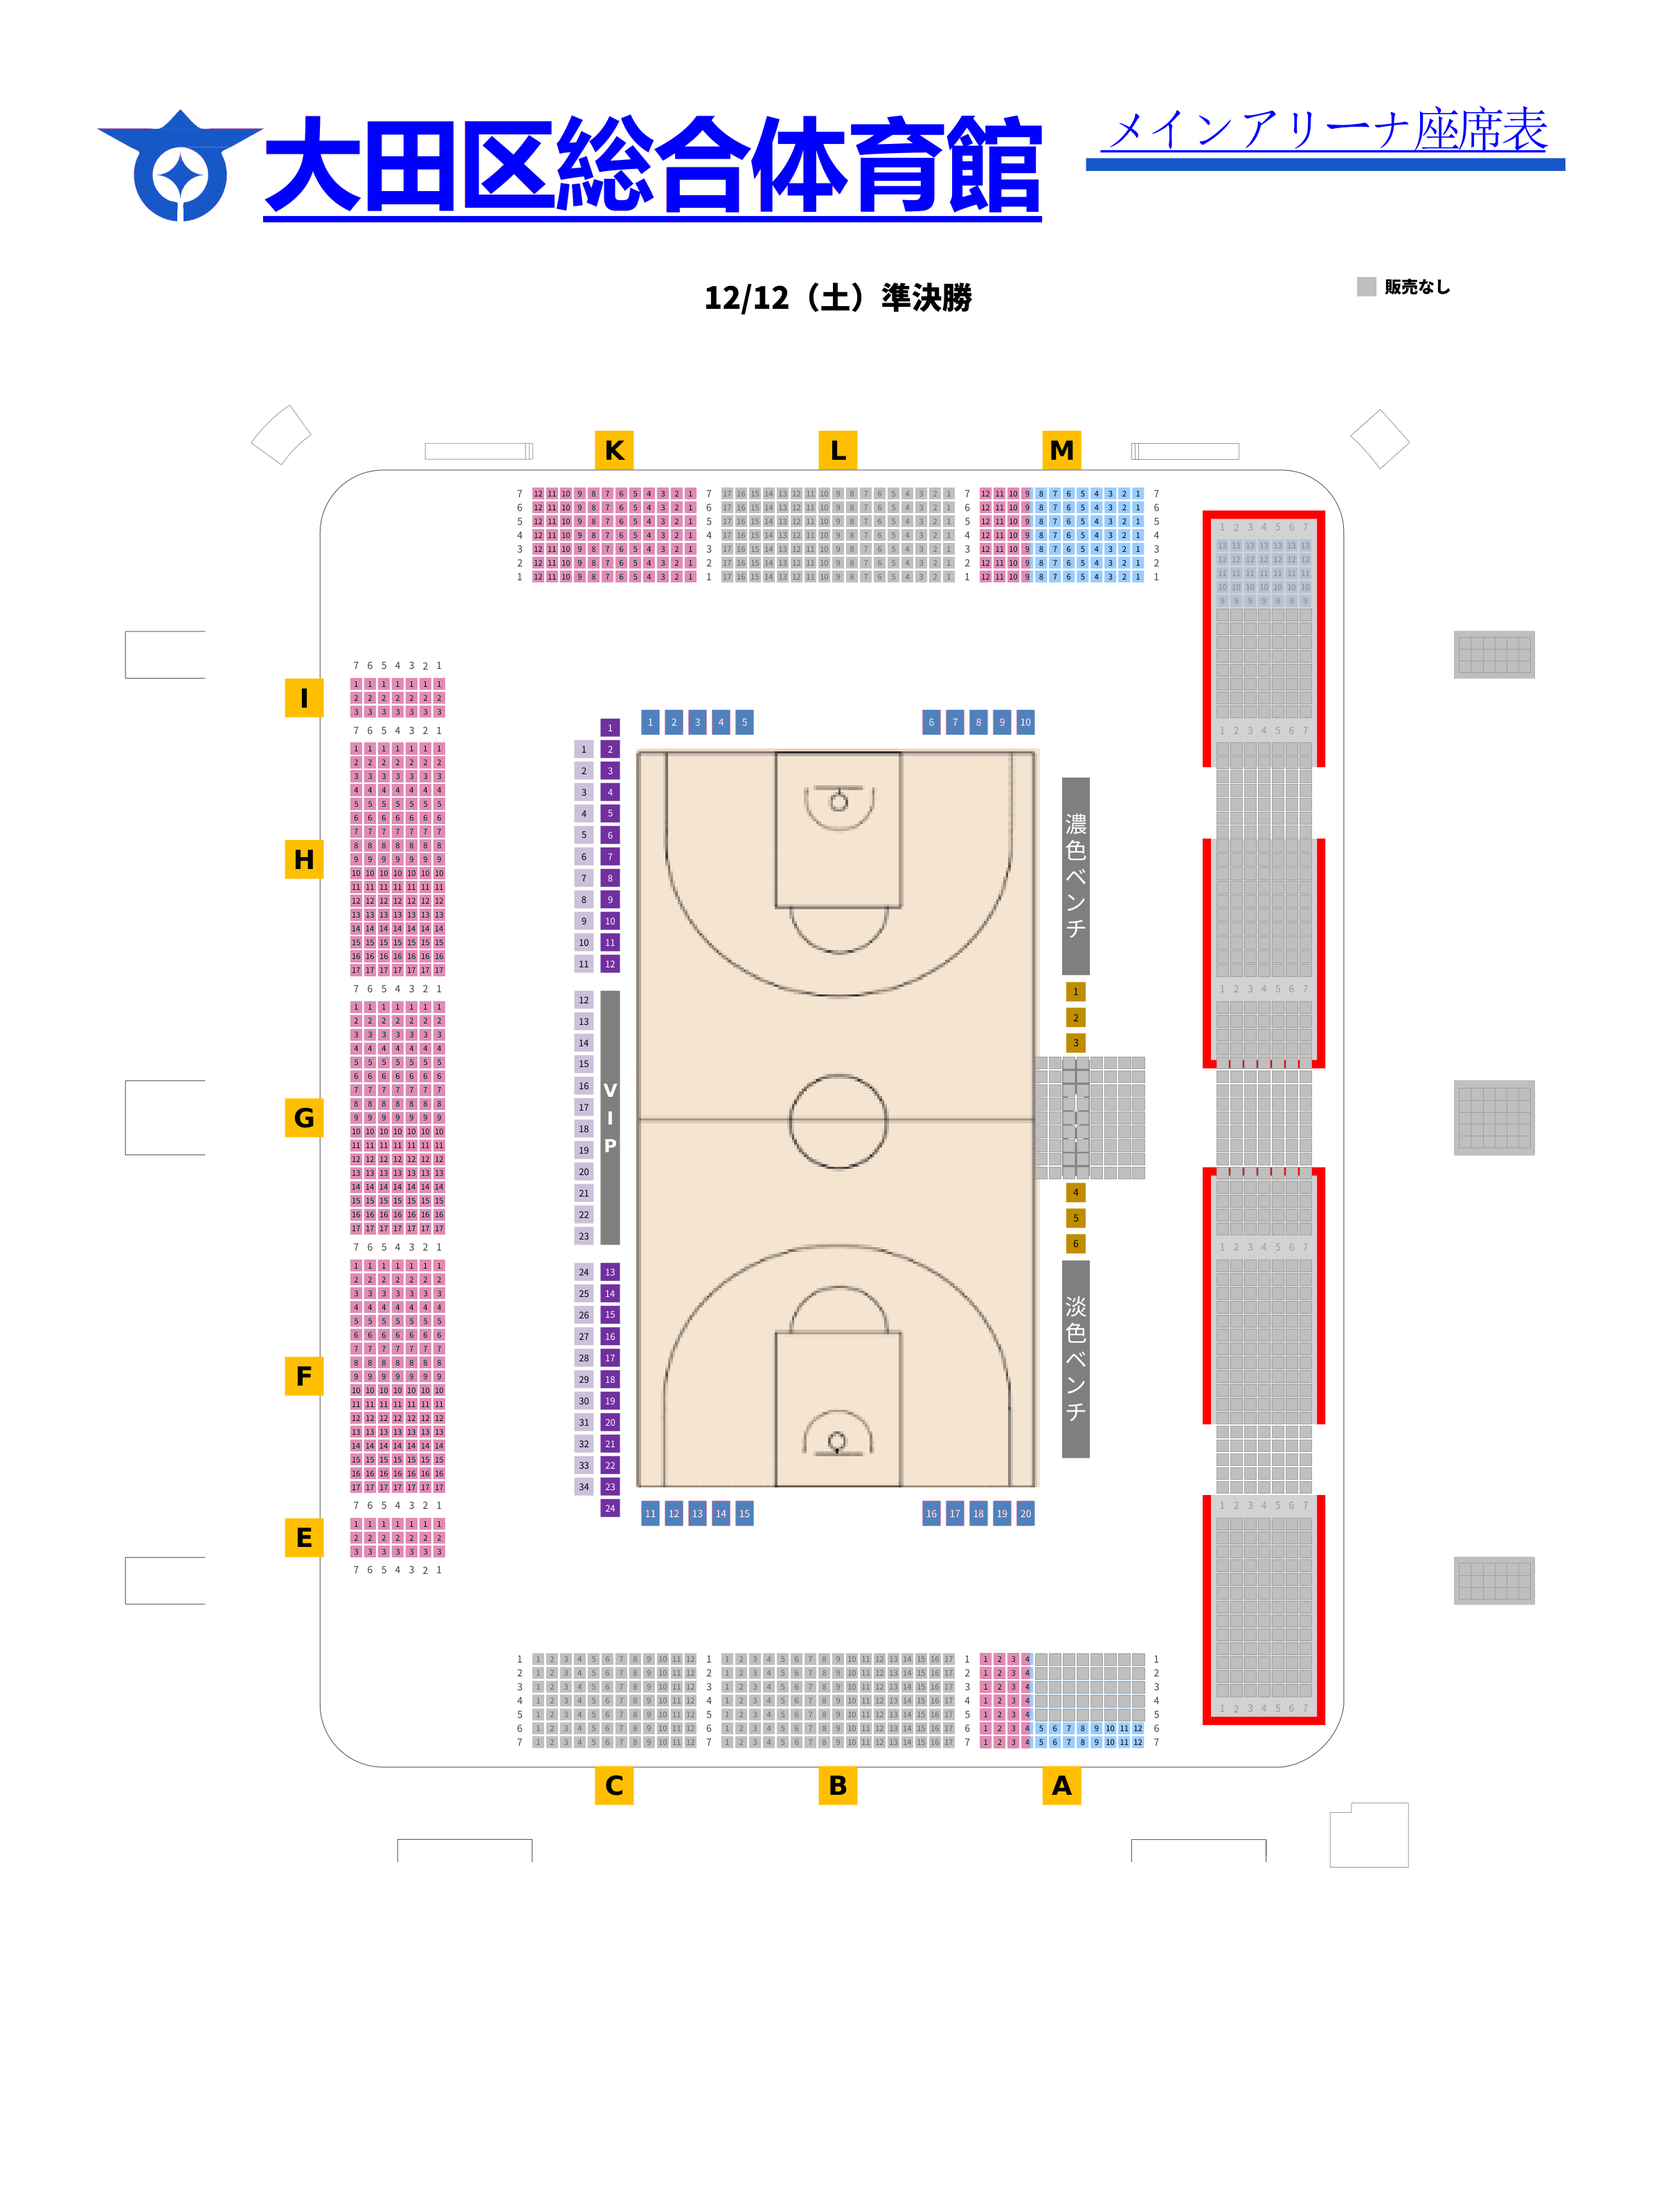
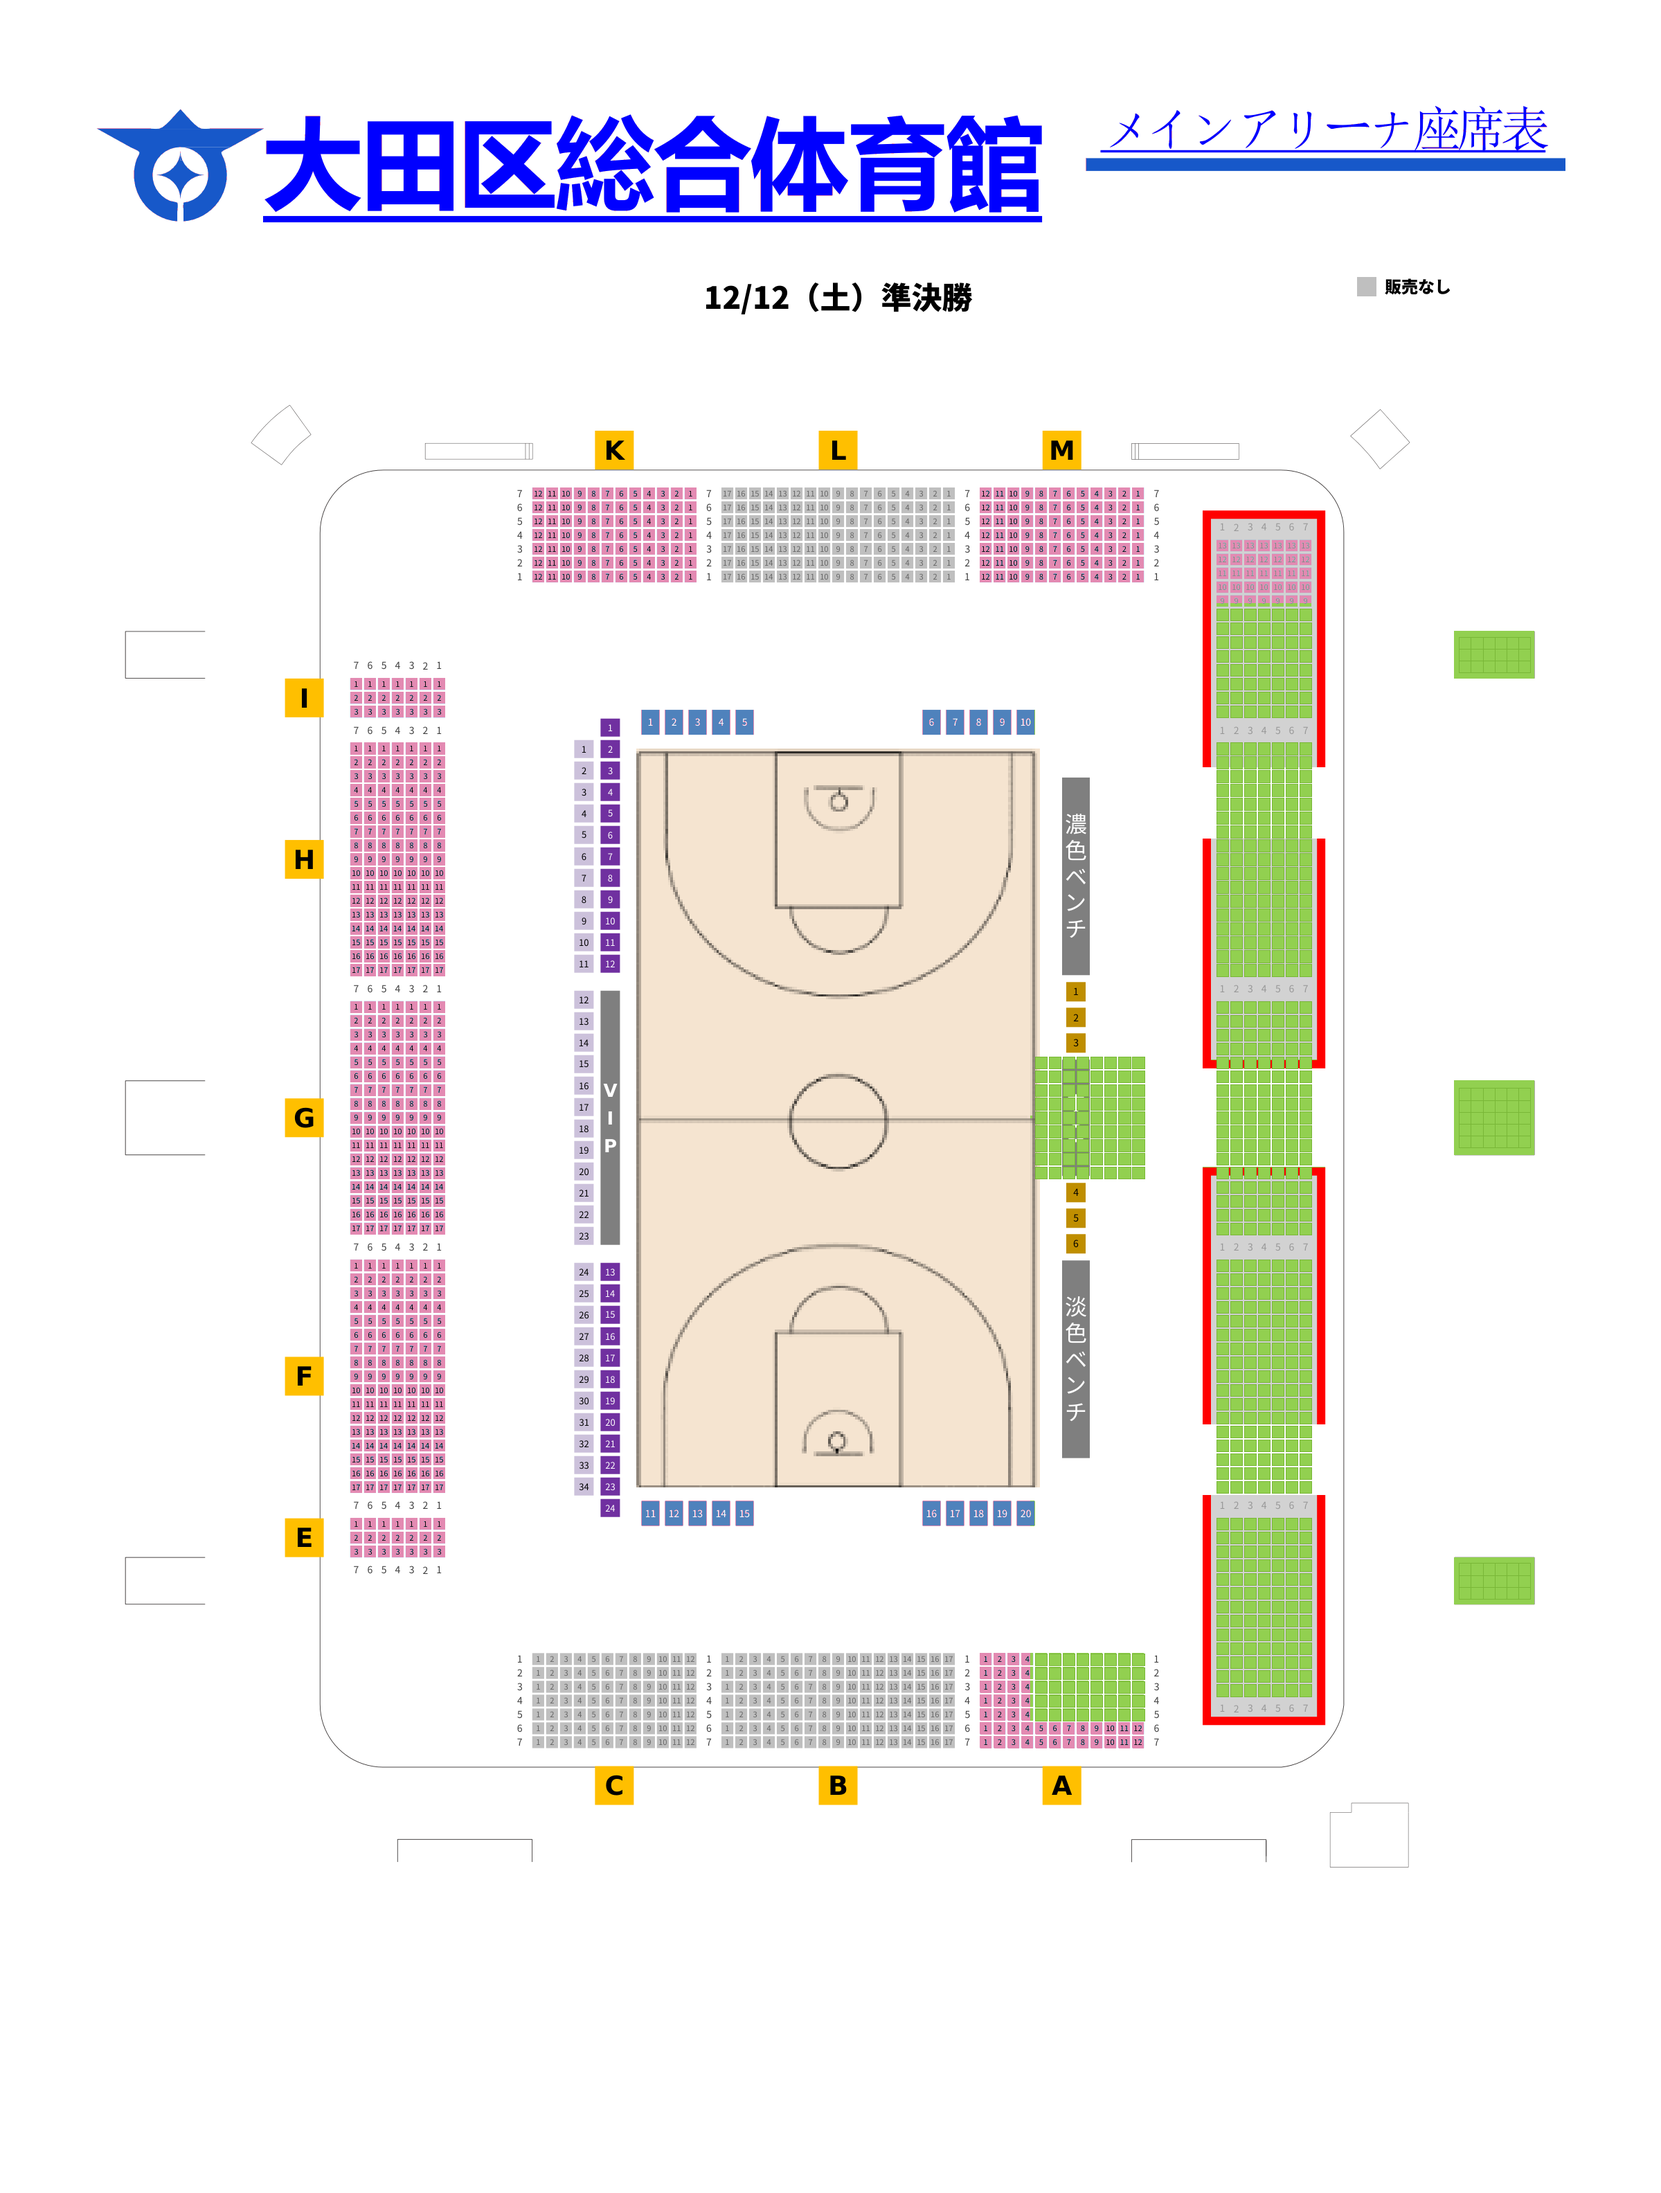
チーム券席を料金表の緑に統一し大田列のピンク水色混在を除去

diff --git a/scripts/convert_pdfs.py b/scripts/convert_pdfs.py
@@ -4,6 +4,7 @@ from __future__ import annotations
 import json
 import re
 import sys
+import time
 from pathlib import Path
 
 try:
@@ -24,8 +25,27 @@ DATE_MAP = {
     "12.13": "2025-12-13",
 }
 
-from incare_palette import FLOOR1_PINK  # noqa: E402
-from extract_seats_from_pdf import ota_stroke_team_rects  # noqa: E402
+from incare_palette import FLOOR1_PINK, TEAM_GREEN  # noqa: E402
+from extract_seats_from_pdf import is_ota_team_zone, ota_stroke_team_rects  # noqa: E402
+
+DEBUG_LOG = ROOT.parent / "debug-0c7e1f.log"
+DEBUG_SESSION = "0c7e1f"
+
+
+def _agent_log(hypothesis_id: str, message: str, data: dict) -> None:
+    # #region agent log
+    payload = {
+        "sessionId": DEBUG_SESSION,
+        "hypothesisId": hypothesis_id,
+        "location": "convert_pdfs.py",
+        "message": message,
+        "data": data,
+        "timestamp": int(time.time() * 1000),
+    }
+    DEBUG_LOG.parent.mkdir(parents=True, exist_ok=True)
+    with DEBUG_LOG.open("a", encoding="utf-8") as f:
+        f.write(json.dumps(payload, ensure_ascii=False) + "\n")
+    # #endregion
 
 # 説明ラベルだけ消す（ベンチ表記は残す）
 REDACT_TEXT_PARTS = ("ベンチ外", "メンバー", "チーム券")
@@ -96,7 +116,7 @@ def fill_ota_stroke_team_boxes(
         return
     im = Image.open(path).convert("RGB")
     draw = ImageDraw.Draw(im)
-    fill = (191, 191, 191)
+    fill = TEAM_GREEN
     for r in rects:
         x0 = max(0, int(r.x0 * scale))
         y0 = max(0, int(r.y0 * scale))
@@ -108,7 +128,7 @@ def fill_ota_stroke_team_boxes(
 
 
 def paint_nonsellable_seats(path: Path, slug: str) -> None:
-    """PDF が枠だけの席を、抽出データで灰色塗り（チーム券の中抜け防止）"""
+    """チーム券席を料金表の緑 #92D050 で塗る（2階灰色は PNG そのまま）"""
     seat_path = ROOT / "public" / "seats" / f"{slug}.json"
     if not seat_path.exists():
         print(f"  skip seat paint (no {seat_path.name})", file=sys.stderr)
@@ -122,11 +142,13 @@ def paint_nonsellable_seats(path: Path, slug: str) -> None:
     draw = ImageDraw.Draw(im)
     w, h = im.size
     painted = 0
+    team_outline = (
+        max(0, TEAM_GREEN[0] - 25),
+        max(0, TEAM_GREEN[1] - 25),
+        max(0, TEAM_GREEN[2] - 25),
+    )
     for s in data.get("seats", []):
-        zone = s.get("zone")
-        if zone not in ("team_ticket", "floor2"):
-            continue
-        if slug in ("2025-12-12", "2025-12-13") and zone != "team_ticket":
+        if s.get("zone") != "team_ticket":
             continue
         x0 = int(s["x"] * w)
         y0 = int(s["y"] * h)
@@ -134,8 +156,7 @@ def paint_nonsellable_seats(path: Path, slug: str) -> None:
         y1 = int((s["y"] + s["h"]) * h)
         if x1 <= x0 or y1 <= y0:
             continue
-        fill = (191, 191, 191) if zone == "team_ticket" else (210, 210, 210)
-        draw.rectangle([x0, y0, x1, y1], fill=fill, outline=(160, 160, 160))
+        draw.rectangle([x0, y0, x1, y1], fill=TEAM_GREEN, outline=team_outline)
         painted += 1
     im.save(path)
     print(f"  painted {painted} nonsellable seats on {path.name}")
@@ -159,7 +180,7 @@ def recolor_floor1_to_pptx_pink(path: Path, slug: str) -> None:
             if is_seat_gray(r, g, b):
                 continue
             if slug in ("2025-12-12", "2025-12-13"):
-                if nx >= 0.62:
+                if is_ota_team_zone(nx, ny):
                     continue
                 if not is_ota_floor1_blue(r, g, b):
                     continue
@@ -170,6 +191,63 @@ def recolor_floor1_to_pptx_pink(path: Path, slug: str) -> None:
     if changed:
         im.save(path)
         print(f"  recolored {changed} px to #E38AB2 on {path.name}")
+
+
+def scrub_ota_team_zone_pink_blue(path: Path, slug: str) -> None:
+    """チーム券列に残った水色・ピンク（1階色）を緑に統一。灰色は触らない。"""
+    if slug not in ("2025-12-12", "2025-12-13"):
+        return
+    try:
+        from PIL import Image
+    except ImportError:
+        return
+    im = Image.open(path).convert("RGB")
+    px = im.load()
+    w, h = im.size
+    changed = 0
+    for y in range(h):
+        ny = y / h
+        for x in range(w):
+            nx = x / w
+            if not is_ota_team_zone(nx, ny):
+                continue
+            r, g, b = px[x, y]
+            if is_seat_gray(r, g, b):
+                continue
+            if is_ota_floor1_blue(r, g, b) or is_pdf_floor1_pink(r, g, b):
+                px[x, y] = TEAM_GREEN
+                changed += 1
+    if changed:
+        im.save(path)
+        print(f"  scrubbed {changed} pink/blue px in team zone on {path.name}")
+
+
+def _team_band_color_sample(path: Path, slug: str) -> dict[str, int]:
+    try:
+        from PIL import Image
+    except ImportError:
+        return {}
+    im = Image.open(path).convert("RGB")
+    w, h = im.size
+    px = im.load()
+    counts = {"pink": 0, "blue": 0, "green": 0, "gray": 0}
+    if slug not in ("2025-12-12", "2025-12-13"):
+        return counts
+    for y in range(int(0.28 * h), int(0.78 * h), 4):
+        for x in range(int(0.62 * w), w, 4):
+            r, g, b = px[x, y]
+            if is_seat_gray(r, g, b):
+                counts["gray"] += 1
+            elif is_ota_floor1_blue(r, g, b) or is_pdf_floor1_pink(r, g, b):
+                if abs(r - TEAM_GREEN[0]) <= 12 and abs(g - TEAM_GREEN[1]) <= 12:
+                    counts["green"] += 1
+                elif is_ota_floor1_blue(r, g, b):
+                    counts["blue"] += 1
+                else:
+                    counts["pink"] += 1
+            elif abs(r - TEAM_GREEN[0]) <= 15 and abs(g - TEAM_GREEN[1]) <= 15:
+                counts["green"] += 1
+    return counts
 
 
 def slug_from_name(name: str) -> str | None:
@@ -214,6 +292,13 @@ def main() -> None:
             fill_ota_stroke_team_boxes(page, out, pw, ph, scale=2.0)
         doc.close()
         paint_nonsellable_seats(out, slug)
+        scrub_ota_team_zone_pink_blue(out, slug)
+        band = _team_band_color_sample(out, slug)
+        _agent_log(
+            "H4",
+            "post-convert team band colors",
+            {"slug": slug, "bandCounts": band, "runId": "convert-post"},
+        )
         meta = {
             "slug": slug,
             "page_width": pw,

diff --git a/scripts/audit_map_colors.py b/scripts/audit_map_colors.py
@@ -1,0 +1,123 @@
+"""PNG のチーム券列付近の色分布を計測（debug session 0c7e1f）"""
+from __future__ import annotations
+
+import json
+import time
+from pathlib import Path
+
+from PIL import Image
+
+ROOT = Path(__file__).resolve().parents[1]
+LOG = ROOT.parent / "debug-0c7e1f.log"
+PINK = (227, 138, 178)
+GREEN = (146, 208, 80)
+SESSION = "0c7e1f"
+
+
+def _log(hypothesis_id: str, message: str, data: dict) -> None:
+    line = json.dumps(
+        {
+            "sessionId": SESSION,
+            "hypothesisId": hypothesis_id,
+            "location": "audit_map_colors.py",
+            "message": message,
+            "data": data,
+            "timestamp": int(time.time() * 1000),
+            "runId": data.get("runId", "audit-post"),
+        },
+        ensure_ascii=False,
+    )
+    LOG.parent.mkdir(parents=True, exist_ok=True)
+    with LOG.open("a", encoding="utf-8") as f:
+        f.write(line + "\n")
+
+
+def is_pink(r: int, g: int, b: int) -> bool:
+    return abs(r - PINK[0]) <= 12 and abs(g - PINK[1]) <= 12 and abs(b - PINK[2]) <= 12
+
+
+def is_green(r: int, g: int, b: int) -> bool:
+    return abs(r - GREEN[0]) <= 12 and abs(g - GREEN[1]) <= 12 and abs(b - GREEN[2]) <= 12
+
+
+def is_blue(r: int, g: int, b: int) -> bool:
+    return b >= 200 and g >= 165 and r <= 200 and b >= g >= r
+
+
+def is_gray(r: int, g: int, b: int) -> bool:
+    spread = max(r, g, b) - min(r, g, b)
+    avg = (r + g + b) / 3
+    return spread < 25 and 140 <= avg <= 220
+
+
+def audit_slug(slug: str) -> None:
+    png = ROOT / "public" / "backgrounds" / f"{slug}.png"
+    seats_path = ROOT / "public" / "seats" / f"{slug}.json"
+    if not png.exists() or not seats_path.exists():
+        _log("H0", "missing files", {"slug": slug, "runId": "audit-pre"})
+        return
+    data = json.loads(seats_path.read_text(encoding="utf-8"))
+    team = [s for s in data["seats"] if s.get("zone") == "team_ticket"]
+    if not team:
+        return
+    im = Image.open(png).convert("RGB")
+    w, h = im.size
+    px = im.load()
+    counts = {"pink": 0, "blue": 0, "green": 0, "gray": 0, "other": 0}
+    # チーム券矩形内をサンプル（席の中心点）
+    seat_hits = {"pink": 0, "blue": 0, "green": 0, "gray": 0, "other": 0}
+    for s in team:
+        cx = int((s["x"] + s["w"] / 2) * w)
+        cy = int((s["y"] + s["h"] / 2) * h)
+        r, g, b = px[cx, cy]
+        if is_pink(r, g, b):
+            seat_hits["pink"] += 1
+        elif is_blue(r, g, b):
+            seat_hits["blue"] += 1
+        elif is_green(r, g, b):
+            seat_hits["green"] += 1
+        elif is_gray(r, g, b):
+            seat_hits["gray"] += 1
+        else:
+            seat_hits["other"] += 1
+    # チーム列の帯域 nx>=0.62, ny 0.28-0.78
+    for y in range(int(0.28 * h), int(0.78 * h), 3):
+        for x in range(int(0.62 * w), w, 3):
+            r, g, b = px[x, y]
+            if is_pink(r, g, b):
+                counts["pink"] += 1
+            elif is_blue(r, g, b):
+                counts["blue"] += 1
+            elif is_green(r, g, b):
+                counts["green"] += 1
+            elif is_gray(r, g, b):
+                counts["gray"] += 1
+            else:
+                counts["other"] += 1
+    mis_f1 = sum(
+        1
+        for s in data["seats"]
+        if s.get("zone") == "floor1"
+        and s["x"] + s["w"] / 2 >= 0.62
+        and 0.275 <= s["y"] + s["h"] / 2 <= 0.785
+    )
+    _log(
+        "H1",
+        "team band color counts",
+        {"slug": slug, "bandCounts": counts, "teamSeats": len(team), "runId": "audit-pre"},
+    )
+    _log(
+        "H2",
+        "team seat center colors",
+        {"slug": slug, "seatCenterHits": seat_hits, "runId": "audit-pre"},
+    )
+    _log(
+        "H3",
+        "floor1 in ota team zone",
+        {"slug": slug, "misclassifiedFloor1": mis_f1, "runId": "audit-pre"},
+    )
+
+
+if __name__ == "__main__":
+    for s in ("2025-12-12", "2025-12-13", "2025-12-11"):
+        audit_slug(s)
